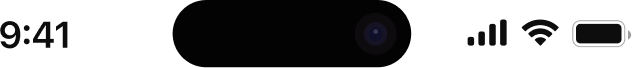
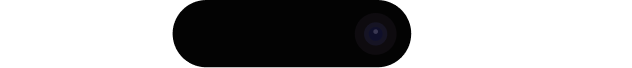
color scheme

Changed region(s): [[0.7215, 0.2647, 1.0, 0.7059], [0.0, 0.2941, 0.1203, 0.7353]]

diff --git a/mobile-app/src/OnboardingSlider.tsx b/mobile-app/src/OnboardingSlider.tsx
@@ -10,6 +10,7 @@ import { LanguagesContext } from './languages/LanguagesContainer';
 import { SearchInput } from './LookUpScreen/SearchInput';
 import { TranslationPresetForm } from './LookUpScreen/TranslationPresetForm';
 import { getOnboardingData } from './Onboarding/getOnboardingData';
+import { useColorScheme } from './useColorScheme';
 
 type Props = {
   sourceLanguage: GoogleLanguage;
@@ -28,6 +29,7 @@ export const OnboardingSlider: FC<Props> = ({
   const { languages } = useContext(LanguagesContext);
 
   const theme = useTheme();
+  const colorScheme = useColorScheme();
   const sliderHeight = Math.min(windowHeight * 0.8, 600);
   const slideHeight = sliderHeight - 60;
 
@@ -117,7 +119,10 @@ export const OnboardingSlider: FC<Props> = ({
               Look it up!
             </Text>
           </Text>
-          <IPhone style={{ height: 350 }}>
+          <IPhone
+            colorScheme={colorScheme}
+            style={{ height: 350, maxWidth: 310 }}
+          >
             <View pointerEvents="none">
               <View style={{ marginBottom: 16, marginTop: 44 }}>
                 <TranslationPresetForm
@@ -185,7 +190,10 @@ export const OnboardingSlider: FC<Props> = ({
               Search for it in {languageList[targetLanguage]}!
             </Text>
           </Text>
-          <IPhone style={{ height: 350 }}>
+          <IPhone
+            colorScheme={colorScheme}
+            style={{ height: 350, maxWidth: 310 }}
+          >
             <View pointerEvents="none">
               <View style={{ marginBottom: 16, marginTop: 44 }}>
                 <TranslationPresetForm
@@ -264,7 +272,10 @@ export const OnboardingSlider: FC<Props> = ({
             the web in Mobile Safari? Translate it with Vocably extension for
             Safari!
           </Text>
-          <IPhone style={{ height: 350 }}>
+          <IPhone
+            colorScheme={colorScheme}
+            style={{ height: 350, maxWidth: 310 }}
+          >
             <View
               pointerEvents="none"
               style={{ marginTop: 64, alignItems: 'center', gap: 24 }}

diff --git a/mobile-app/src/iPhone.tsx b/mobile-app/src/iPhone.tsx
@@ -1,12 +1,15 @@
 import { FC, PropsWithChildren, useState } from 'react';
 import { FlexStyle, Image, ImageBackground, View } from 'react-native';
+import { ColorScheme } from './useColorScheme';
 
 type Props = {
   style?: FlexStyle;
+  colorScheme?: ColorScheme;
 };
 
 export const IPhone: FC<PropsWithChildren<Props>> = ({
   style = {},
+  colorScheme = 'light',
   children,
 }) => {
   const [containerWidth, setContainerWidth] = useState(0);
@@ -51,7 +54,7 @@ export const IPhone: FC<PropsWithChildren<Props>> = ({
         <View
           style={{
             position: 'absolute',
-            left: 14,
+            left: containerWidth / 22.14,
             top: 18,
             right: 0,
             display: 'flex',
@@ -61,10 +64,14 @@ export const IPhone: FC<PropsWithChildren<Props>> = ({
         >
           <Image
             resizeMode="cover"
-            source={require('./iPhoneHeaderLight.png')}
+            source={
+              colorScheme === 'light'
+                ? require('./iPhoneHeaderLight.png')
+                : require('./iPhoneHeaderDark.png')
+            }
             style={{
-              width: '84%',
-              height: 30,
+              width: containerWidth / 1.3,
+              height: containerWidth / 12,
             }}
           />
         </View>

diff --git a/mobile-app/src/ThemeProvider.tsx b/mobile-app/src/ThemeProvider.tsx
@@ -1,11 +1,11 @@
-import { FC, PropsWithChildren, useEffect, useState } from 'react';
-import { Appearance } from 'react-native';
+import { FC, PropsWithChildren } from 'react';
 import {
   MD3DarkTheme,
   MD3LightTheme,
   MD3Theme,
   Provider,
 } from 'react-native-paper';
+import { useColorScheme } from './useColorScheme';
 
 type ThemeProvider = FC<PropsWithChildren<{}>>;
 
@@ -73,19 +73,7 @@ const darkTheme: MD3Theme = {
 };
 
 export const ThemeProvider: ThemeProvider = ({ children }) => {
-  const [colorScheme, setColorScheme] = useState<'dark' | 'light'>(
-    Appearance.getColorScheme() ?? 'light'
-  );
-
-  useEffect(() => {
-    const subscription = Appearance.addChangeListener((preferences) => {
-      setColorScheme(preferences.colorScheme ?? 'light');
-    });
-
-    return () => {
-      subscription.remove();
-    };
-  }, [Appearance]);
+  const colorScheme = useColorScheme();
   return (
     <Provider theme={colorScheme === 'dark' ? darkTheme : lightTheme}>
       {children}

diff --git a/mobile-app/src/useColorScheme.ts b/mobile-app/src/useColorScheme.ts
@@ -1,0 +1,22 @@
+import { useEffect, useState } from 'react';
+import { Appearance } from 'react-native';
+
+export type ColorScheme = 'dark' | 'light';
+
+export const useColorScheme = (): ColorScheme => {
+  const [colorScheme, setColorScheme] = useState<ColorScheme>(
+    Appearance.getColorScheme() ?? 'light'
+  );
+
+  useEffect(() => {
+    const subscription = Appearance.addChangeListener((preferences) => {
+      setColorScheme(preferences.colorScheme ?? 'light');
+    });
+
+    return () => {
+      subscription.remove();
+    };
+  }, [Appearance]);
+
+  return colorScheme;
+};
